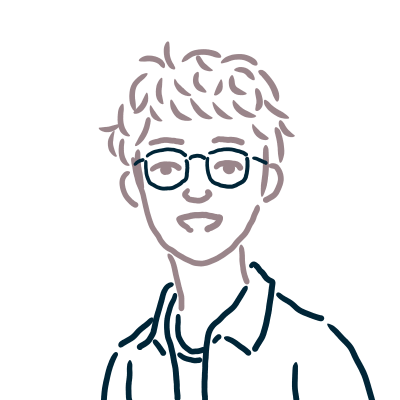
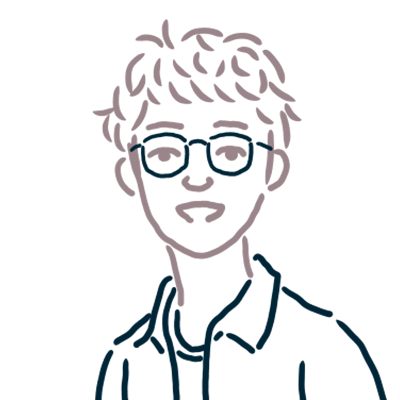
Adjust member portrait image size

Changed region(s): [[0.24, 0.03, 0.99, 1.0], [0.72, 0.9, 0.78, 1.0]]

diff --git a/pages/members.vue b/pages/members.vue
@@ -154,8 +154,8 @@ export default {
   }
 
   @include mq(lg) {
-    width: 160px;
-    height: 160px;
+    width: 158px;
+    height: 158px;
   }
 }
 
